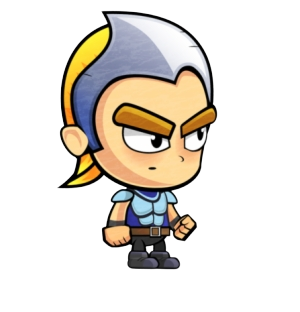
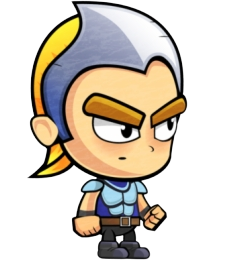
add all player images and finish choose your character

diff --git a/main.py b/main.py
@@ -12,7 +12,11 @@ from Other.game_states import GameStates
 
 # -------------------------PLAYER SLIKE I DEFINISANJE PLAYERA------------------
 player_picture_1 = pygame.image.load("player_pictures/player1.png")
-player_picture_1 = pygame.transform.scale(player_picture_1 , (100,100))
+player_picture_1 = pygame.transform.scale(player_picture_1 , (200,200))
+player_picture_2 = pygame.image.load("player_pictures/player2.png")
+player_picture_2 = pygame.transform.smoothscale(player_picture_2 , (200,200))
+player_picture_3 = pygame.image.load("player_pictures/player3.jpg")
+player_picture_3 = pygame.transform.scale(player_picture_3 , (350,200))
 
 igrac = player.Player(None , 100 , None)
 if path.exists("Saves/player_name.pickle"):
@@ -79,7 +83,24 @@ def choose_character():
             if dogadjaj.type == pygame.QUIT:
                 sys.exit()
         prozor.fill((0,0,0))
-        prozor.blit(player_picture_1 ,(96, 99) )
+        prozor.blit(player_picture_1 ,(64, 99) )
+        prozor.blit(player_picture_2 , (300 , 85))
+        prozor.blit(player_picture_3 , (500 , 99))
+        prozor.blit(Text_Files.texts.character1_text , (100 , 50))
+        prozor.blit(Text_Files.texts.character2_text, (350, 50))
+        prozor.blit(Text_Files.texts.character3_text, (620, 50))
+        if player_picture_1.get_rect().collidepoint(pygame.mouse.get_pos()):
+            prozor.blit(Text_Files.texts.character1_stat_damage , (50 , 350))
+            prozor.blit(Text_Files.texts.character1_stat_defense, (50, 390))
+            prozor.blit(Text_Files.texts.character1_stat_stamina, (50, 430))
+        if player_picture_2.get_rect().collidepoint(pygame.mouse.get_pos()):
+            prozor.blit(Text_Files.texts.character2_stat_damage , (300 , 350))
+            prozor.blit(Text_Files.texts.character2_stat_defense, (300, 390))
+            prozor.blit(Text_Files.texts.character2_stat_stamina, (300, 430))
+        if player_picture_3.get_rect().collidepoint(pygame.mouse.get_pos()):
+            prozor.blit(Text_Files.texts.character3_stat_damage , (570 , 350))
+            prozor.blit(Text_Files.texts.character3_stat_defense, (570, 390))
+            prozor.blit(Text_Files.texts.character3_stat_stamina, (570, 430))
         global trenutno_stanje
         trenutno_stanje = GameStates.CHOOSE_CHARACTER
         with open("Saves/trenutno_stanje.pickle", "wb") as f:

diff --git a/Text_Files/texts.py b/Text_Files/texts.py
@@ -14,4 +14,16 @@ credits_text_tata = credits_font.render(f"Programming teacher : {programming_tea
 player_name = ""
 choose_name_title = choose_name_font.render("Choose your name", True, (255, 255, 255))
 welcome_text = welcome_font.render(f"Welcome {player_name}", True, (0, 128, 0))
-#--------------------------------------------------------------
+#----------------------CHOOSE YOUR CHARACTER TEXTS----------------------------
+character1_text = credits_font.render("Knight", True, (255, 255, 255))
+character2_text = credits_font.render("Pirate", True, (255, 255, 255))
+character3_text = credits_font.render("Furry?", True, (255, 255, 255))
+character1_stat_damage = credits_font.render("Damage : 50" , True , (255,255,255))
+character1_stat_defense = credits_font.render("Defense : 10" , True , (255,255,255))
+character1_stat_stamina = credits_font.render("Stamina : 40" , True , (255,255,255))
+character2_stat_damage = credits_font.render("Damage : 40" , True , (255,255,255))
+character2_stat_defense = credits_font.render("Defense : 20" , True , (255,255,255))
+character2_stat_stamina = credits_font.render("Stamina : 40" , True , (255,255,255))
+character3_stat_damage = credits_font.render("Damage : 30" , True , (255,255,255))
+character3_stat_defense = credits_font.render("Defense : 10" , True , (255,255,255))
+character3_stat_stamina = credits_font.render("Stamina : 60" , True , (255,255,255))
